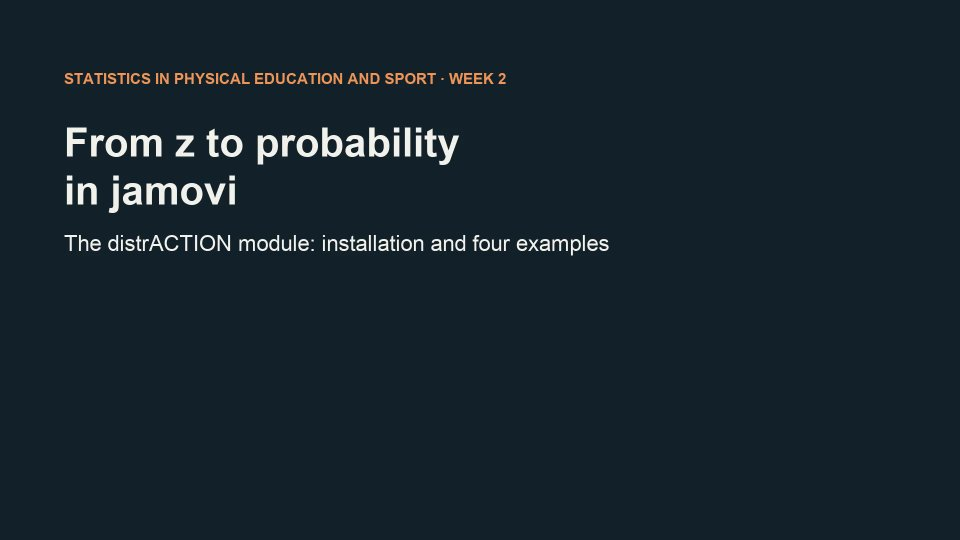
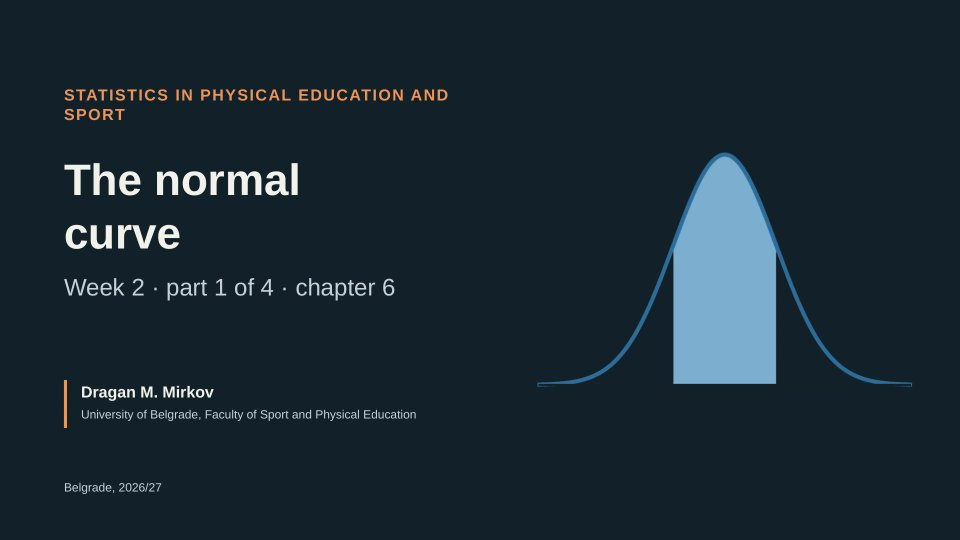
STAT_DAS N02: stranice lekcije i predmeta sa video predavanjem

diff --git a/en/courses/stat-das/index.html b/en/courses/stat-das/index.html
@@ -16,7 +16,7 @@
 <div class="hero"><div><p class="siv">Doctoral studies</p><h1>Statistics in Physical Education and Sport</h1><p class="uvod">Statistical methods for research in physical education and sport: from describing data and the fundamentals of statistical inference to correlation and regression, the t test, analysis of variance, measurement reliability and nonparametric tests. The course follows the textbook by Weir and Vincent (2021).</p></div><div class="slika"><svg viewBox="0 0 480 270" role="img" aria-hidden="true" preserveAspectRatio="xMidYMid meet"><polyline points="24.0,228.6 28.8,228.3 33.6,228.1 38.4,227.7 43.2,227.3 48.0,226.8 52.8,226.2 57.6,225.4 62.4,224.6 67.2,223.6 72.0,222.4 76.8,221.0 81.6,219.4 86.4,217.6 91.2,215.5 96.0,213.2 100.8,210.5 105.6,207.6 110.4,204.3 115.2,200.6 120.0,196.6 124.8,192.2 129.6,187.5 134.4,182.4 139.2,176.9 144.0,171.1 148.8,165.0 153.6,158.6 158.4,152.0 163.2,145.2 168.0,138.2 172.8,131.2 177.6,124.2 182.4,117.3 187.2,110.5 192.0,104.0 196.8,97.7 201.6,91.9 206.4,86.5 211.2,81.7 216.0,77.5 220.8,74.0 225.6,71.2 230.4,69.1 235.2,67.9 240.0,67.5 244.8,67.9 249.6,69.1 254.4,71.2 259.2,74.0 264.0,77.5 268.8,81.7 273.6,86.5 278.4,91.9 283.2,97.7 288.0,104.0 292.8,110.5 297.6,117.3 302.4,124.2 307.2,131.2 312.0,138.2 316.8,145.2 321.6,152.0 326.4,158.6 331.2,165.0 336.0,171.1 340.8,176.9 345.6,182.4 350.4,187.5 355.2,192.2 360.0,196.6 364.8,200.6 369.6,204.3 374.4,207.6 379.2,210.5 384.0,213.2 388.8,215.5 393.6,217.6 398.4,219.4 403.2,221.0 408.0,222.4 412.8,223.6 417.6,224.6 422.4,225.4 427.2,226.2 432.0,226.8 436.8,227.3 441.6,227.7 446.4,228.1 451.2,228.3 456.0,228.6" fill="none" stroke="#15222C" stroke-width="3"/><polygon points="350.4,229.5 350.4,187.5 355.2,192.2 360.0,196.6 364.8,200.6 369.6,204.3 374.4,207.6 379.2,210.5 384.0,213.2 388.8,215.5 393.6,217.6 398.4,219.4 403.2,221.0 408.0,222.4 412.8,223.6 417.6,224.6 422.4,225.4 427.2,226.2 432.0,226.8 436.8,227.3 441.6,227.7 446.4,228.1 451.2,228.3 456.0,228.6 456.0,229.5" fill="#B4501E" opacity=".85"/><line x1="24.0" x2="456.0" y1="229.5" y2="229.5" stroke="#A3ABB2" stroke-width="1.5"/><line x1="240.0" x2="240.0" y1="59.4" y2="229.5" stroke="#2F6F9F" stroke-width="1.5" stroke-dasharray="4 4"/></svg></div></div>
 <h2>Lessons</h2>
 <div class="leg"><span class="l1">video lecture</span><span class="l2">material from 2025</span><span class="">coming soon</span></div>
-<ol class="put"><li class="mat"><span class="d"></span><div class="br">Lesson 0</div><a href="n00/"><div class="nz">Introductory class — how the course works</div><div class="pod">Schedule, lecturers, textbook, what a week looks like, what to do before the first class</div></a></li><li class="novi"><span class="d"></span><div class="br">Lesson 1</div><a href="n01/"><div class="nz">Measurement, organizing and displaying data, percentiles, central tendency and variability</div><div class="pod">Weir &amp; Vincent (2021), chapters 1–5</div><div class="st">Video 41:03</div><div class="prev"><img src="n01/naslov.jpg" alt="" loading="lazy"></div></a></li><li class="mat"><span class="d"></span><div class="br">Lesson 2</div><a href="n02/"><div class="nz">The normal curve and fundamentals of statistical inference</div><div class="pod">Weir &amp; Vincent (2021), chapters 6–7</div></a></li><li class="iz2025"><span class="d"></span><div class="br">Lesson 3</div><a href="n03/"><div class="nz">Correlation and regression — bivariate, multiple and partial</div><div class="pod">Weir &amp; Vincent (2021), chapters 8–9</div><div class="st">Material from 2025, in preparation</div></a></li><li class="bez"><span class="d"></span><div class="br">Lesson 4</div><div class="nz">The t test: comparing means from two sets of data</div><div class="pod">Weir &amp; Vincent (2021), chapter 10</div></li><li class="bez"><span class="d"></span><div class="br">Lesson 5</div><div class="nz">Simple analysis of variance and analysis of variance with repeated measures</div><div class="pod">Weir &amp; Vincent (2021), chapters 11–12</div></li><li class="bez"><span class="d"></span><div class="br">Lesson 6</div><div class="nz">Quantifying reliability</div><div class="pod">Weir &amp; Vincent (2021), chapter 13</div></li><li class="bez"><span class="d"></span><div class="br">Lesson 7</div><div class="nz">Factorial analysis of variance</div><div class="pod">Weir &amp; Vincent (2021), chapter 14</div></li><li class="bez"><span class="d"></span><div class="br">Lesson 8</div><div class="nz">Analysis of covariance</div><div class="pod">Weir &amp; Vincent (2021), chapter 15</div></li><li class="bez"><span class="d"></span><div class="br">Lesson 9</div><div class="nz">Analysis of nonparametric data and clinical measures of association</div><div class="pod">Weir &amp; Vincent (2021), chapters 16–17</div></li><li class="bez"><span class="d"></span><div class="br">Lesson 10</div><div class="nz">Advanced statistical procedures</div><div class="pod">Weir &amp; Vincent (2021), chapter 18</div></li><li class="bez"><span class="d"></span><div class="br">Lesson 11</div><div class="nz">Early exam (final test)</div></li></ol>
+<ol class="put"><li class="mat"><span class="d"></span><div class="br">Lesson 0</div><a href="n00/"><div class="nz">Introductory class — how the course works</div><div class="pod">Schedule, lecturers, textbook, what a week looks like, what to do before the first class</div></a></li><li class="novi"><span class="d"></span><div class="br">Lesson 1</div><a href="n01/"><div class="nz">Measurement, organizing and displaying data, percentiles, central tendency and variability</div><div class="pod">Weir &amp; Vincent (2021), chapters 1–5</div><div class="st">Video 41:03</div><div class="prev"><img src="n01/naslov.jpg" alt="" loading="lazy"></div></a></li><li class="novi"><span class="d"></span><div class="br">Lesson 2</div><a href="n02/"><div class="nz">The normal curve and fundamentals of statistical inference</div><div class="pod">Weir &amp; Vincent (2021), chapters 6–7</div><div class="st">Video 43:44</div><div class="prev"><img src="n02/naslov.jpg" alt="" loading="lazy"></div></a></li><li class="iz2025"><span class="d"></span><div class="br">Lesson 3</div><a href="n03/"><div class="nz">Correlation and regression — bivariate, multiple and partial</div><div class="pod">Weir &amp; Vincent (2021), chapters 8–9</div><div class="st">Material from 2025, in preparation</div></a></li><li class="bez"><span class="d"></span><div class="br">Lesson 4</div><div class="nz">The t test: comparing means from two sets of data</div><div class="pod">Weir &amp; Vincent (2021), chapter 10</div></li><li class="bez"><span class="d"></span><div class="br">Lesson 5</div><div class="nz">Simple analysis of variance and analysis of variance with repeated measures</div><div class="pod">Weir &amp; Vincent (2021), chapters 11–12</div></li><li class="bez"><span class="d"></span><div class="br">Lesson 6</div><div class="nz">Quantifying reliability</div><div class="pod">Weir &amp; Vincent (2021), chapter 13</div></li><li class="bez"><span class="d"></span><div class="br">Lesson 7</div><div class="nz">Factorial analysis of variance</div><div class="pod">Weir &amp; Vincent (2021), chapter 14</div></li><li class="bez"><span class="d"></span><div class="br">Lesson 8</div><div class="nz">Analysis of covariance</div><div class="pod">Weir &amp; Vincent (2021), chapter 15</div></li><li class="bez"><span class="d"></span><div class="br">Lesson 9</div><div class="nz">Analysis of nonparametric data and clinical measures of association</div><div class="pod">Weir &amp; Vincent (2021), chapters 16–17</div></li><li class="bez"><span class="d"></span><div class="br">Lesson 10</div><div class="nz">Advanced statistical procedures</div><div class="pod">Weir &amp; Vincent (2021), chapter 18</div></li><li class="bez"><span class="d"></span><div class="br">Lesson 11</div><div class="nz">Early exam (final test)</div></li></ol>
 </main>
 <footer>
 <p>Contact: <a href="mailto:dragan.mirkov@fsfv.bg.ac.rs">dragan.mirkov@fsfv.bg.ac.rs</a></p>

diff --git a/predmeti/stat-das/index.html b/predmeti/stat-das/index.html
@@ -16,7 +16,7 @@
 <div class="hero"><div><p class="siv">Doktorske akademske studije</p><h1>Statistika u fizičkom vaspitanju i sportu</h1><p class="uvod">Statističke metode u istraživanjima u fizičkom vaspitanju i sportu: od opisa podataka i osnova statističkog zaključivanja do korelacije i regresije, t-testa, analize varijanse, pouzdanosti merenja i neparametrijskih testova. Nastava prati udžbenik Weir i Vincent (2021).</p></div><div class="slika"><svg viewBox="0 0 480 270" role="img" aria-hidden="true" preserveAspectRatio="xMidYMid meet"><polyline points="24.0,228.6 28.8,228.3 33.6,228.1 38.4,227.7 43.2,227.3 48.0,226.8 52.8,226.2 57.6,225.4 62.4,224.6 67.2,223.6 72.0,222.4 76.8,221.0 81.6,219.4 86.4,217.6 91.2,215.5 96.0,213.2 100.8,210.5 105.6,207.6 110.4,204.3 115.2,200.6 120.0,196.6 124.8,192.2 129.6,187.5 134.4,182.4 139.2,176.9 144.0,171.1 148.8,165.0 153.6,158.6 158.4,152.0 163.2,145.2 168.0,138.2 172.8,131.2 177.6,124.2 182.4,117.3 187.2,110.5 192.0,104.0 196.8,97.7 201.6,91.9 206.4,86.5 211.2,81.7 216.0,77.5 220.8,74.0 225.6,71.2 230.4,69.1 235.2,67.9 240.0,67.5 244.8,67.9 249.6,69.1 254.4,71.2 259.2,74.0 264.0,77.5 268.8,81.7 273.6,86.5 278.4,91.9 283.2,97.7 288.0,104.0 292.8,110.5 297.6,117.3 302.4,124.2 307.2,131.2 312.0,138.2 316.8,145.2 321.6,152.0 326.4,158.6 331.2,165.0 336.0,171.1 340.8,176.9 345.6,182.4 350.4,187.5 355.2,192.2 360.0,196.6 364.8,200.6 369.6,204.3 374.4,207.6 379.2,210.5 384.0,213.2 388.8,215.5 393.6,217.6 398.4,219.4 403.2,221.0 408.0,222.4 412.8,223.6 417.6,224.6 422.4,225.4 427.2,226.2 432.0,226.8 436.8,227.3 441.6,227.7 446.4,228.1 451.2,228.3 456.0,228.6" fill="none" stroke="#15222C" stroke-width="3"/><polygon points="350.4,229.5 350.4,187.5 355.2,192.2 360.0,196.6 364.8,200.6 369.6,204.3 374.4,207.6 379.2,210.5 384.0,213.2 388.8,215.5 393.6,217.6 398.4,219.4 403.2,221.0 408.0,222.4 412.8,223.6 417.6,224.6 422.4,225.4 427.2,226.2 432.0,226.8 436.8,227.3 441.6,227.7 446.4,228.1 451.2,228.3 456.0,228.6 456.0,229.5" fill="#B4501E" opacity=".85"/><line x1="24.0" x2="456.0" y1="229.5" y2="229.5" stroke="#A3ABB2" stroke-width="1.5"/><line x1="240.0" x2="240.0" y1="59.4" y2="229.5" stroke="#2F6F9F" stroke-width="1.5" stroke-dasharray="4 4"/></svg></div></div>
 <h2>Lekcije</h2>
 <div class="leg"><span class="l1">video predavanje</span><span class="l2">materijal iz 2025</span><span class="">uskoro</span></div>
-<ol class="put"><li class="mat"><span class="d"></span><div class="br">Lekcija 0</div><a href="n00/"><div class="nz">Uvodni čas — način rada</div><div class="pod">Raspored, nastavnici, udžbenik, tok nedelje, šta uraditi pre prvog časa</div></a></li><li class="novi"><span class="d"></span><div class="br">Lekcija 1</div><a href="n01/"><div class="nz">Merenje, prikaz podataka, percentili, centralna tendencija i varijabilnost</div><div class="pod">Weir i Vincent (2021), poglavlja 1–5</div><div class="st">Video 34:40</div><div class="prev"><img src="n01/naslov.jpg" alt="" loading="lazy"></div></a></li><li class="iz2025"><span class="d"></span><div class="br">Lekcija 2</div><a href="n02/"><div class="nz">Normalna raspodela i osnove statističkog zaključivanja</div><div class="pod">Weir i Vincent (2021), poglavlja 6–7</div><div class="st">Materijal iz 2025, u izradi</div></a></li><li class="iz2025"><span class="d"></span><div class="br">Lekcija 3</div><a href="n03/"><div class="nz">Korelacija i regresija — bivarijantna, višestruka i parcijalna</div><div class="pod">Weir i Vincent (2021), poglavlja 8–9</div><div class="st">Materijal iz 2025, u izradi</div></a></li><li class="bez"><span class="d"></span><div class="br">Lekcija 4</div><div class="nz">t-test</div><div class="pod">Weir i Vincent (2021), poglavlje 10</div></li><li class="bez"><span class="d"></span><div class="br">Lekcija 5</div><div class="nz">Jednofaktorska analiza varijanse i analiza varijanse sa ponovljenim merenjima</div><div class="pod">Weir i Vincent (2021), poglavlja 11–12</div></li><li class="bez"><span class="d"></span><div class="br">Lekcija 6</div><div class="nz">Pouzdanost merenja</div><div class="pod">Weir i Vincent (2021), poglavlje 13</div></li><li class="bez"><span class="d"></span><div class="br">Lekcija 7</div><div class="nz">Faktorijalna analiza varijanse</div><div class="pod">Weir i Vincent (2021), poglavlje 14</div></li><li class="bez"><span class="d"></span><div class="br">Lekcija 8</div><div class="nz">Analiza kovarijanse</div><div class="pod">Weir i Vincent (2021), poglavlje 15</div></li><li class="bez"><span class="d"></span><div class="br">Lekcija 9</div><div class="nz">Neparametrijski testovi i kliničke mere povezanosti</div><div class="pod">Weir i Vincent (2021), poglavlja 16–17</div></li><li class="bez"><span class="d"></span><div class="br">Lekcija 10</div><div class="nz">Napredne statističke procedure</div><div class="pod">Weir i Vincent (2021), poglavlje 18</div></li><li class="bez"><span class="d"></span><div class="br">Lekcija 11</div><div class="nz">Predispit (završni test)</div></li></ol>
+<ol class="put"><li class="mat"><span class="d"></span><div class="br">Lekcija 0</div><a href="n00/"><div class="nz">Uvodni čas — način rada</div><div class="pod">Raspored, nastavnici, udžbenik, tok nedelje, šta uraditi pre prvog časa</div></a></li><li class="novi"><span class="d"></span><div class="br">Lekcija 1</div><a href="n01/"><div class="nz">Merenje, prikaz podataka, percentili, centralna tendencija i varijabilnost</div><div class="pod">Weir i Vincent (2021), poglavlja 1–5</div><div class="st">Video 34:40</div><div class="prev"><img src="n01/naslov.jpg" alt="" loading="lazy"></div></a></li><li class="novi"><span class="d"></span><div class="br">Lekcija 2</div><a href="n02/"><div class="nz">Normalna raspodela i osnove statističkog zaključivanja</div><div class="pod">Weir i Vincent (2021), poglavlja 6–7</div><div class="st">Video 38:14</div><div class="prev"><img src="n02/naslov.jpg" alt="" loading="lazy"></div></a></li><li class="iz2025"><span class="d"></span><div class="br">Lekcija 3</div><a href="n03/"><div class="nz">Korelacija i regresija — bivarijantna, višestruka i parcijalna</div><div class="pod">Weir i Vincent (2021), poglavlja 8–9</div><div class="st">Materijal iz 2025, u izradi</div></a></li><li class="bez"><span class="d"></span><div class="br">Lekcija 4</div><div class="nz">t-test</div><div class="pod">Weir i Vincent (2021), poglavlje 10</div></li><li class="bez"><span class="d"></span><div class="br">Lekcija 5</div><div class="nz">Jednofaktorska analiza varijanse i analiza varijanse sa ponovljenim merenjima</div><div class="pod">Weir i Vincent (2021), poglavlja 11–12</div></li><li class="bez"><span class="d"></span><div class="br">Lekcija 6</div><div class="nz">Pouzdanost merenja</div><div class="pod">Weir i Vincent (2021), poglavlje 13</div></li><li class="bez"><span class="d"></span><div class="br">Lekcija 7</div><div class="nz">Faktorijalna analiza varijanse</div><div class="pod">Weir i Vincent (2021), poglavlje 14</div></li><li class="bez"><span class="d"></span><div class="br">Lekcija 8</div><div class="nz">Analiza kovarijanse</div><div class="pod">Weir i Vincent (2021), poglavlje 15</div></li><li class="bez"><span class="d"></span><div class="br">Lekcija 9</div><div class="nz">Neparametrijski testovi i kliničke mere povezanosti</div><div class="pod">Weir i Vincent (2021), poglavlja 16–17</div></li><li class="bez"><span class="d"></span><div class="br">Lekcija 10</div><div class="nz">Napredne statističke procedure</div><div class="pod">Weir i Vincent (2021), poglavlje 18</div></li><li class="bez"><span class="d"></span><div class="br">Lekcija 11</div><div class="nz">Predispit (završni test)</div></li></ol>
 </main>
 <footer>
 <p>Kontakt: <a href="mailto:dragan.mirkov@fsfv.bg.ac.rs">dragan.mirkov@fsfv.bg.ac.rs</a></p>

diff --git a/predmeti/stat-das/n02/index.html b/predmeti/stat-das/n02/index.html
@@ -4,7 +4,7 @@
 <meta charset="utf-8">
 <meta name="viewport" content="width=device-width,initial-scale=1">
 <title>Normalna raspodela i osnove statističkog zaključivanja · Statistika u fizičkom vaspitanju i sportu</title>
-<meta name="description" content="Normalna raspodela i osnove statističkog zaključivanja. Materijal iz 2025, u izradi.">
+<meta name="description" content="Normalna raspodela i osnove statističkog zaključivanja. Video predavanje.">
 <link rel="stylesheet" href="../../../stil.css?v=a28abda6">
 <link rel="alternate" hreflang="sr-Latn" href="./">
 <link rel="alternate" hreflang="en" href="../../../en/courses/stat-das/n02/">
@@ -15,9 +15,18 @@
 <main>
 <h1 class="lek">Normalna raspodela i osnove statističkog zaključivanja</h1>
 <p class="napomena">Weir i Vincent (2021), poglavlja 6–7</p>
+<h2>Video predavanje</h2>
+<h3>Deo 1 — Normalna kriva</h3>
+<video controls preload="metadata" poster="naslov.jpg" src="STAT_DAS_N02_Deo1_Video_SR.mp4"></video>
+<h3>Deo 2 — Standardna greška i interval pouzdanosti</h3>
+<video controls preload="metadata" poster="naslov_2.jpg" src="STAT_DAS_N02_Deo2_Video_SR.mp4"></video>
+<h3>Deo 3 — Testiranje hipoteza i statistička snaga</h3>
+<video controls preload="metadata" poster="naslov_3.jpg" src="STAT_DAS_N02_Deo3_Video_SR.mp4"></video>
+<h3>Deo 4 — Stepeni slobode, usmereni test i interval pouzdanosti</h3>
+<video controls preload="metadata" poster="naslov_4.jpg" src="STAT_DAS_N02_Deo4_Video_SR.mp4"></video>
 <h2>Video uputstvo</h2>
 <h3>Od z do verovatnoće u Džamoviju (Jamovi): modul distrACTION (2 min, bez glasa)</h3>
-<video controls preload="metadata" poster="naslov.jpg" src="STAT_DAS_N02_Video_distrACTION_SR.mp4"></video>
+<video controls preload="metadata" poster="naslov_5.jpg" src="STAT_DAS_N02_Video_distrACTION_SR.mp4"></video>
 <h2>Materijal</h2>
 <ul class="fajlovi"><li><a href="STAT_DAS_N02_pregled.pdf" target="_blank" rel="noopener">Kratak pregled</a> <span class="vel">PDF, 125 kB · <a href="STAT_DAS_N02_pregled.pdf" download>sačuvaj na računaru</a></span></li><li><a href="STAT_DAS_N02_skok_udalj_CI.pdf" target="_blank" rel="noopener">Interval pouzdanosti i test hipoteze: skok udalj</a> <span class="vel">PDF, 195 kB · <a href="STAT_DAS_N02_skok_udalj_CI.pdf" download>sačuvaj na računaru</a></span></li><li><a href="STAT_DAS_N02_Rad_na_casu_SR.pdf" target="_blank" rel="noopener">Samostalni rad na času, poglavlja 6 i 7 (zadaci)</a> <span class="vel">PDF, 86 kB · <a href="STAT_DAS_N02_Rad_na_casu_SR.pdf" download>sačuvaj na računaru</a></span></li><li><a href="STAT_DAS_N02_Cas_Visina_masa.xlsx" download>Rad na času, podaci: visina i masa jedanaestogodišnjaka, N = 1982</a> <span class="vel">Eksel (Excel), 47 kB</span></li><li><a href="STAT_DAS_N02_Cas_Skokovi.xlsx" download>Rad na času, podaci: tri skoka po uzrastu, N = 30</a> <span class="vel">Eksel, 6 kB</span></li><li><a href="STAT_DAS_N02_Domaci_SR.pdf" target="_blank" rel="noopener">Domaći zadatak, poglavlja 6 i 7 (zadaci)</a> <span class="vel">PDF, 95 kB · <a href="STAT_DAS_N02_Domaci_SR.pdf" download>sačuvaj na računaru</a></span></li><li><a href="STAT_DAS_N02_Domaci_Skokovi.xlsx" download>Domaći, podaci: skok udalj iz mesta, uzorak N = 50</a> <span class="vel">Eksel, 6 kB</span></li></ul>
 <h2>Dodatni materijal</h2>

diff --git a/en/courses/stat-das/n02/index.html b/en/courses/stat-das/n02/index.html
@@ -4,7 +4,7 @@
 <meta charset="utf-8">
 <meta name="viewport" content="width=device-width,initial-scale=1">
 <title>The normal curve and fundamentals of statistical inference · Statistics in Physical Education and Sport</title>
-<meta name="description" content="The normal curve and fundamentals of statistical inference. Material from 2025, in preparation.">
+<meta name="description" content="The normal curve and fundamentals of statistical inference. Video lecture.">
 <link rel="stylesheet" href="../../../../stil.css?v=a28abda6">
 <link rel="alternate" hreflang="en" href="./">
 <link rel="alternate" hreflang="sr-Latn" href="../../../../predmeti/stat-das/n02/">
@@ -15,9 +15,18 @@
 <main>
 <h1 class="lek">The normal curve and fundamentals of statistical inference</h1>
 <p class="napomena">Weir &amp; Vincent (2021), chapters 6–7</p>
+<h2>Video lecture</h2>
+<h3>Part 1 — The normal curve</h3>
+<video controls preload="metadata" poster="naslov.jpg" src="STAT_DAS_W02_Part1_Video_EN.mp4"></video>
+<h3>Part 2 — Standard error and confidence intervals</h3>
+<video controls preload="metadata" poster="naslov_2.jpg" src="STAT_DAS_W02_Part2_Video_EN.mp4"></video>
+<h3>Part 3 — Hypothesis testing and statistical power</h3>
+<video controls preload="metadata" poster="naslov_3.jpg" src="STAT_DAS_W02_Part3_Video_EN.mp4"></video>
+<h3>Part 4 — Degrees of freedom, one-tailed tests and confidence intervals</h3>
+<video controls preload="metadata" poster="naslov_4.jpg" src="STAT_DAS_W02_Part4_Video_EN.mp4"></video>
 <h2>Video guide</h2>
 <h3>From z to probability in jamovi: the distrACTION module (2 min, no voice)</h3>
-<video controls preload="metadata" poster="naslov.jpg" src="STAT_DAS_W02_Video_distrACTION_EN.mp4"></video>
+<video controls preload="metadata" poster="naslov_5.jpg" src="STAT_DAS_W02_Video_distrACTION_EN.mp4"></video>
 <h2>Materials</h2>
 <ul class="fajlovi"><li><a href="STAT_DAS_W02_In_class_EN.pdf" target="_blank" rel="noopener">In-class work, chapters 6 and 7 (tasks)</a> <span class="vel">PDF, 85 kB · <a href="STAT_DAS_W02_In_class_EN.pdf" download>save to computer</a></span></li><li><a href="STAT_DAS_N02_Class_Height_mass.xlsx" download>In-class data: height and mass of 11-year-olds, N = 1982</a> <span class="vel">Excel, 47 kB</span></li><li><a href="STAT_DAS_N02_Class_Jumps.xlsx" download>In-class data: three jumps by age, N = 30</a> <span class="vel">Excel, 6 kB</span></li><li><a href="STAT_DAS_W02_Homework_EN.pdf" target="_blank" rel="noopener">Homework, chapters 6 and 7 (tasks)</a> <span class="vel">PDF, 94 kB · <a href="STAT_DAS_W02_Homework_EN.pdf" download>save to computer</a></span></li><li><a href="STAT_DAS_N02_Homework_Jumps.xlsx" download>Homework data: standing long jump, sample N = 50</a> <span class="vel">Excel, 6 kB</span></li></ul>
 <h2>Further resources</h2>
